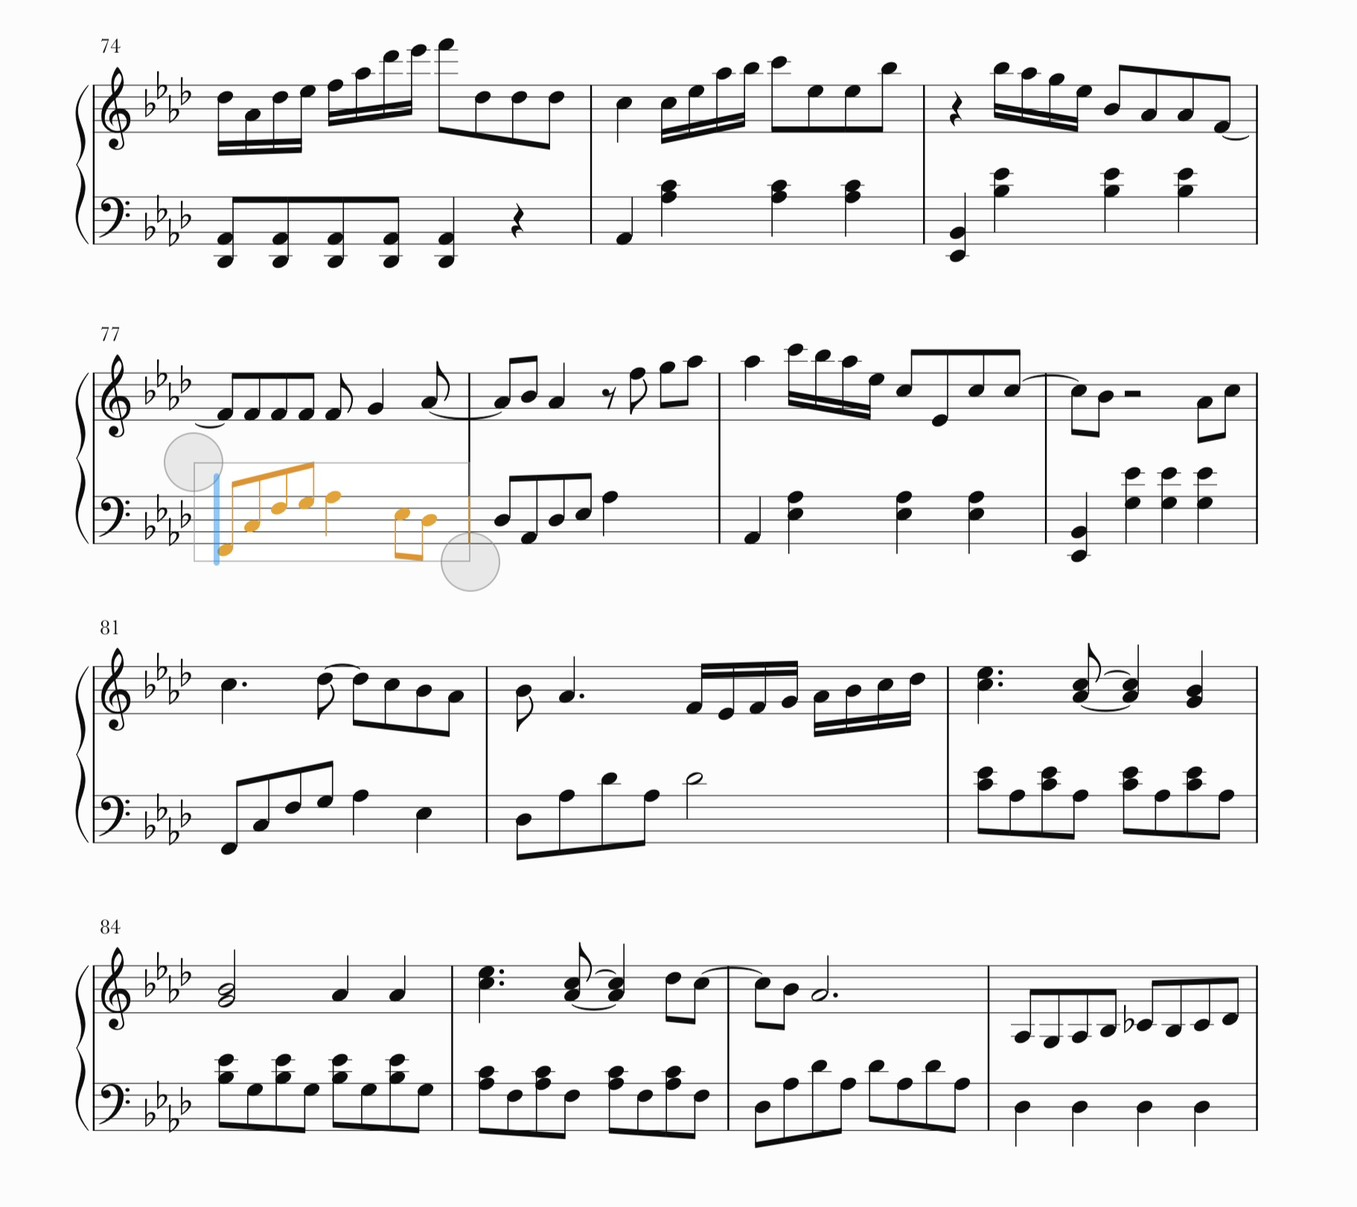
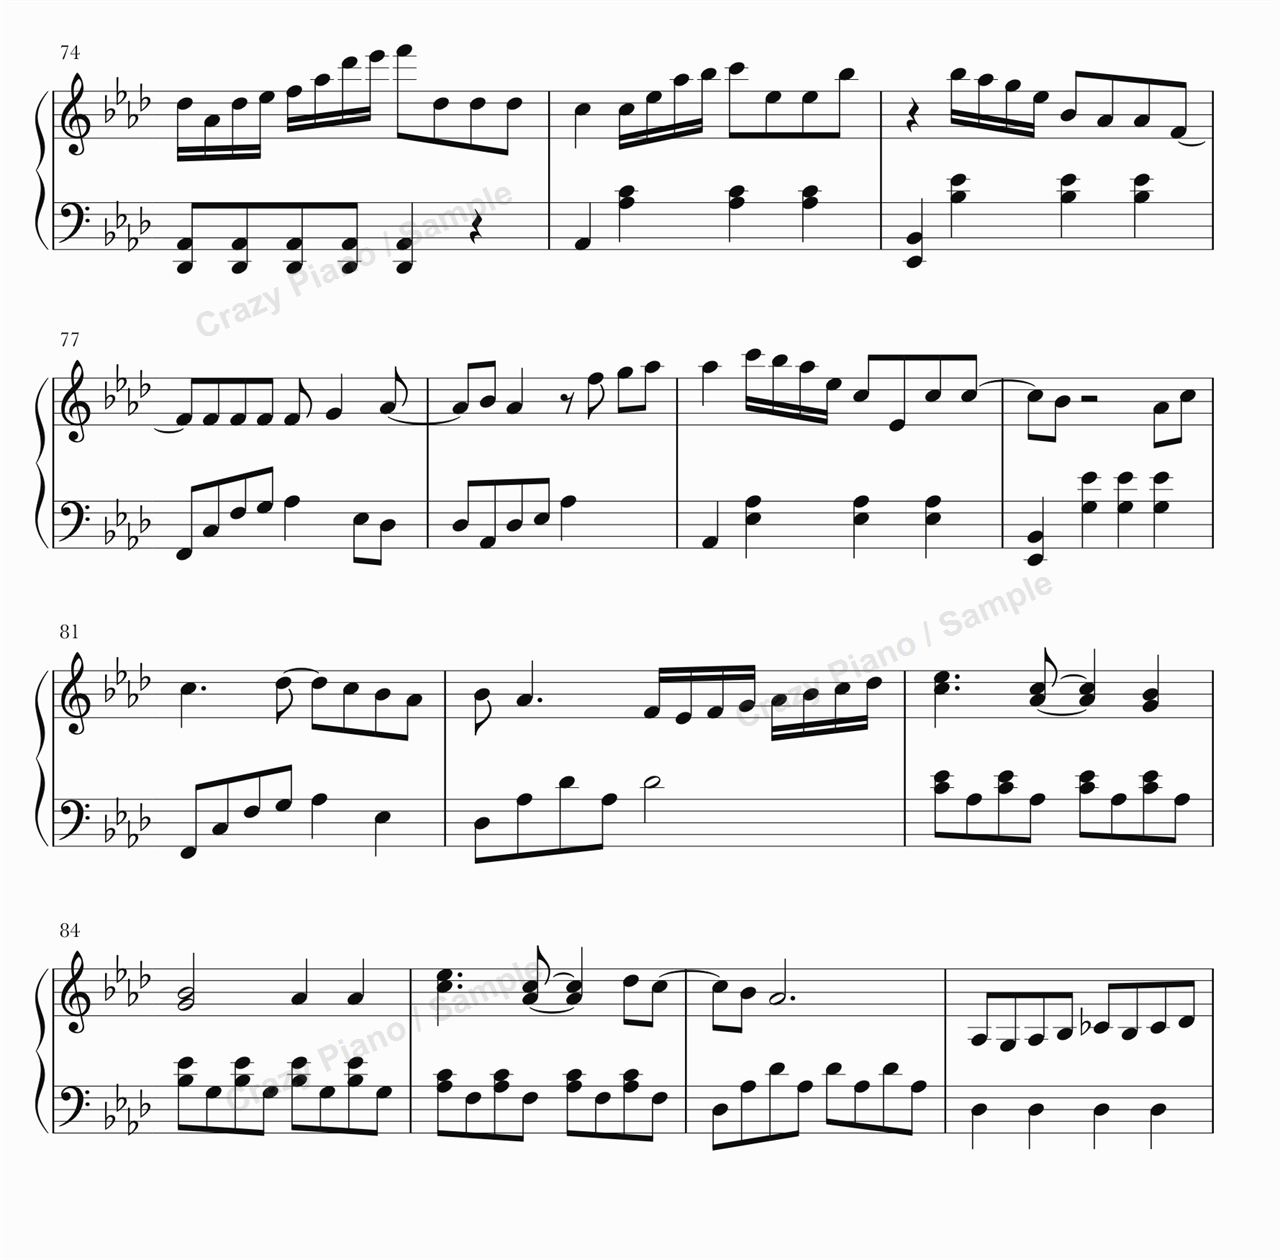
Resolve production asset blockers

diff --git a/PHOTO_USAGE_REVIEW.md b/PHOTO_USAGE_REVIEW.md
@@ -2,46 +2,55 @@
 
 This file records the proposed public website usage of the image assets currently available in `D:\CrazyPiano`. No child names should be displayed in captions, alt text, filenames, or page copy.
 
-## Production website usage audit — updated 2026-10-10
+## Production website usage audit — updated 2026-10-11
 
 This section is the **new audit added in the current production-preparation round**. It is based on image references actually present in `D:\CrazyPiano\website`, rather than on the full source-material library.
 
 ### 1. Currently used on production website — minors or age-unconfirmed participants
 
-`APPROVED FOR PUBLIC USE` requires explicit, verifiable authorization. No such authorization record was found in the project files reviewed during this audit. Until evidence is recorded, every item below remains `PERMISSION REQUIRED`.
+The user has confirmed that every currently deployed photo containing a minor or age-unconfirmed participant has authorization from the relevant person or, for a minor, their parent/legal guardian. Group-photo confirmation covers every identifiable minor in the deployed image.
+
+Authorization record for every item in the table below:
+
+- **Permission:** Permission confirmed by user
+- **Date:** 2026-10-11
+- **Method:** Authorization evidence retained privately by user
+- **Scope:** Crazy Piano official public website
+
+This confirmation does not extend to social media, paid advertising, third-party distribution, or unused candidate assets.
 
 | Website asset filename | Source asset | Route | Section | Permission status | Production action |
 | --- | --- | --- | --- | --- | --- |
-| `public/images/about/about-teacher-student-stage-2024.jpg` | `03/_photos/About Me/about-teacher-student-stage-2024.jpg` | `/` | About Dr. Hsu | No verifiable written public-use authorization found | **PERMISSION REQUIRED** |
-| `public/images/about/about-teaching-in-action-piano-cajon.jpg` | `source-materials/S__33800200.jpg` | `/about` | Teaching in Action | Student appears underage; no verifiable written public-use authorization found | **PERMISSION REQUIRED** |
-| `public/images/gallery/performance-young-student-piano-2024.jpg` | `03/_photos/Performance/performance-young-student-piano-2024.jpg` | `/` | Student Recital Gallery | Minor; no verifiable written public-use authorization found | **PERMISSION REQUIRED** |
-| `public/images/gallery/performance-teen-student-piano-2024.jpg` | `03/_photos/Performance/performance-teen-student-piano-2024.jpg` | `/` | Student Recital Gallery | Minor; no verifiable written public-use authorization found | **PERMISSION REQUIRED** |
-| `public/images/lessons/kids-piano-student-2024.jpg` | `03/_photos/Performance/performance-young-student-piano-2024.jpg` | `/lessons/kids` | Hero; How We Learn | Minor; same underlying photo as the homepage gallery asset above | **PERMISSION REQUIRED** |
-| `public/images/gallery/gallery-ensemble-piano-drums.jpg` | `source-materials/gallery/ensemble/S__33955843_0.jpg` | `/gallery` | Ensemble | Participant age and public-use authorization are unconfirmed | **PERMISSION REQUIRED** |
-| `public/images/gallery/gallery-ensemble-violin-piano.jpg` | `source-materials/gallery/ensemble/S__33955849_0.jpg` | `/gallery` | Ensemble | Minor; no verifiable written public-use authorization found | **PERMISSION REQUIRED** |
-| `public/images/gallery/gallery-ensemble-teacher-student-stage.jpg` | `source-materials/gallery/ensemble/S__33955860_0.jpg` | `/gallery` | Gallery Moments | Minor; no verifiable written public-use authorization found | **PERMISSION REQUIRED** |
-| `public/images/gallery/gallery-posture-child-hand-position.jpg` | `source-materials/gallery/posture/S__33955855_0.jpg` | `/gallery` | Posture / Technique | Minor's hands are visible; no verifiable written public-use authorization found | **PERMISSION REQUIRED** |
-| `public/images/gallery/gallery-posture-video-preview.jpg` | `source-materials/gallery/posture/S__33955856_0.jpg` | `/gallery` | Posture / Technique video card | Participant age and public-use authorization are unconfirmed | **PERMISSION REQUIRED** |
-| `public/images/gallery/gallery-recital-student-solo-stage.jpg` | `source-materials/gallery/recital/S__33955859_0.jpg` | `/gallery` | Recital | Minor; no verifiable written public-use authorization found | **PERMISSION REQUIRED** |
-| `public/images/gallery/music-activity-teacher-stage-talk.jpg` | `source-materials/gallery/recital/S__33955862_0.jpg` | `/`; `/gallery`; `/lessons/exams-competitions` | Homepage Gallery; Recital; Teacher Experience | Teacher is the principal identifiable subject; audience details are low-identifiability | **PERMISSION REQUIRED — LOW IDENTIFIABILITY / REVIEW POSSIBLE RETENTION** |
-| `public/images/gallery/gallery-judging-live-session.jpg` | `source-materials/gallery/judging/CEC123BD-A49F-4C27-918A-8EB2A1C76C82.jpg` | `/gallery` | Judging | Multiple minors; no verifiable written public-use authorization found | **PERMISSION REQUIRED** |
+| `public/images/about/about-teacher-student-stage-2024.jpg` | `03/_photos/About Me/about-teacher-student-stage-2024.jpg` | `/` | About Dr. Hsu | Confirmed for the stated website scope | **APPROVED FOR PUBLIC USE** |
+| `public/images/about/about-teaching-in-action-piano-cajon.jpg` | `source-materials/S__33800200.jpg` | `/about` | Teaching in Action | Confirmed for the stated website scope | **APPROVED FOR PUBLIC USE** |
+| `public/images/gallery/performance-young-student-piano-2024.jpg` | `03/_photos/Performance/performance-young-student-piano-2024.jpg` | `/` | Student Recital Gallery | Confirmed for the stated website scope | **APPROVED FOR PUBLIC USE** |
+| `public/images/gallery/performance-teen-student-piano-2024.jpg` | `03/_photos/Performance/performance-teen-student-piano-2024.jpg` | `/` | Student Recital Gallery | Confirmed for the stated website scope | **APPROVED FOR PUBLIC USE** |
+| `public/images/lessons/kids-piano-student-2024.jpg` | `03/_photos/Performance/performance-young-student-piano-2024.jpg` | `/lessons/kids` | Hero; How We Learn | Confirmed; same underlying photo as the Homepage Gallery asset above | **APPROVED FOR PUBLIC USE** |
+| `public/images/gallery/gallery-ensemble-piano-drums.jpg` | `source-materials/gallery/ensemble/S__33955843_0.jpg` | `/gallery` | Ensemble | Confirmed for the stated website scope | **APPROVED FOR PUBLIC USE** |
+| `public/images/gallery/gallery-ensemble-violin-piano.jpg` | `source-materials/gallery/ensemble/S__33955849_0.jpg` | `/gallery` | Ensemble | Confirmed for the stated website scope | **APPROVED FOR PUBLIC USE** |
+| `public/images/gallery/gallery-ensemble-teacher-student-stage.jpg` | `source-materials/gallery/ensemble/S__33955860_0.jpg` | `/gallery` | Gallery Moments | Confirmed for the stated website scope | **APPROVED FOR PUBLIC USE** |
+| `public/images/gallery/gallery-posture-child-hand-position.jpg` | `source-materials/gallery/posture/S__33955855_0.jpg` | `/gallery` | Posture / Technique | Confirmed for the stated website scope | **APPROVED FOR PUBLIC USE** |
+| `public/images/gallery/gallery-posture-video-preview.jpg` | `source-materials/gallery/posture/S__33955856_0.jpg` | `/gallery` | Posture / Technique video card | Confirmed for the stated website scope | **APPROVED FOR PUBLIC USE** |
+| `public/images/gallery/gallery-recital-student-solo-stage.jpg` | `source-materials/gallery/recital/S__33955859_0.jpg` | `/gallery` | Recital | Confirmed for the stated website scope | **APPROVED FOR PUBLIC USE** |
+| `public/images/gallery/music-activity-teacher-stage-talk.jpg` | `source-materials/gallery/recital/S__33955862_0.jpg` | `/`; `/gallery`; `/lessons/exams-competitions` | Homepage Gallery; Recital; Teacher Experience | Confirmed for the stated website scope, including identifiable audience members | **APPROVED FOR PUBLIC USE** |
+| `public/images/gallery/gallery-judging-live-session.jpg` | `source-materials/gallery/judging/CEC123BD-A49F-4C27-918A-8EB2A1C76C82.jpg` | `/gallery` | Judging | Confirmed for every identifiable minor in the deployed group photo | **APPROVED FOR PUBLIC USE** |
 
 There are now **13 deployed website asset filenames representing 12 distinct photos** in this audit. One source photo is published under separate route-specific filenames:
 
 - `performance-young-student-piano-2024.jpg` and `kids-piano-student-2024.jpg`
 
-Current planning estimate after the first replacement round:
+Current authorization coverage:
 
 - Clearly identifiable minor or age-uncertain people: approximately **19**
 - Low-identifiability photo groups: **4**
 - Total permission-planning people/groups: approximately **23**
-- Multi-minor group photos still deployed: **1** (`gallery-judging-live-session.jpg`)
+- Multi-minor group photos deployed and confirmed within the stated website scope: **1** (`gallery-judging-live-session.jpg`)
 
 Production-action summary by distinct photo:
 
-- **APPROVED FOR PUBLIC USE:** 0
-- **PERMISSION REQUIRED:** 12
-- **REPLACE BEFORE PUBLIC LAUNCH:** 1
+- **APPROVED FOR PUBLIC USE:** 12
+- **PERMISSION REQUIRED:** 0
+- **REPLACE BEFORE PUBLIC LAUNCH:** 0
 
 ### 2. Not currently used on the production website
 
@@ -57,13 +66,15 @@ The following previously catalogued minor/student images are not referenced by t
 
 ### 3. Approved for public use
 
-- No currently used photo containing a minor has verifiable authorization evidence in the reviewed project files.
+- All **12 distinct currently deployed photos** covered by this audit are approved for use on the Crazy Piano official public website based on the user's confirmation dated 2026-10-11.
+- The authorization evidence is retained privately by the user and is not stored in this repository.
+- The approval does not extend to unused candidate assets or uses outside the stated website scope.
 - Adult-only teacher assets are outside this minor-permission count.
 
 ### 4. Replace before launch
 
-- `public/images/gallery/gallery-judging-live-session.jpg` — **REPLACEMENT STILL REQUIRED BEFORE PUBLIC LAUNCH**. It remains in the Gallery Judging section because no current candidate simultaneously preserves the judging story, avoids high permission risk, and avoids same-section duplication.
-- If authorization cannot be documented for any `PERMISSION REQUIRED` item, it must be replaced or removed before public launch.
+- None for the currently deployed photos covered by this audit.
+- `public/images/gallery/gallery-judging-live-session.jpg` is now **APPROVED FOR PUBLIC USE** within the stated website scope; replacement is no longer required for permission reasons.
 
 ## Legacy proposed-use catalog
 
@@ -72,33 +83,33 @@ The table below is retained as the broader asset catalog created before the prod
 | File name | Proposed page usage | Contains minors | Public-use status | Notes |
 | --- | --- | --- | --- | --- |
 | `pen-assets/profile/hsu-minpiyer-hero-enhanced.png` | Home Hero | No | Owner confirmed for website use | Final Homepage Hero teacher image; retain unless the owner requests a future change. |
-| `03/_photos/About Me/about-teacher-student-stage-2024.jpg` | Home About Dr. Hsu | Yes | **Public use permission required.** | Teacher with one student on a recital stage. Do not identify the student. |
-| `source-materials/S__33800200.jpg` → `pen-assets/about/about-teaching-in-action-piano-cajon.jpg` | About — Teaching in Action | Yes | **Public use permission required.** | Teacher at the piano with a student playing cajón/percussion. Do not identify the student. |
+| `03/_photos/About Me/about-teacher-student-stage-2024.jpg` | Home About Dr. Hsu | Yes | **APPROVED FOR PUBLIC USE — official website scope.** | Permission confirmed by user on 2026-10-11; evidence retained privately. Do not identify the student. |
+| `source-materials/S__33800200.jpg` → `pen-assets/about/about-teaching-in-action-piano-cajon.jpg` | About — Teaching in Action | Yes | **APPROVED FOR PUBLIC USE — official website scope.** | Permission confirmed by user on 2026-10-11; evidence retained privately. Do not identify the student. |
 | `03/_photos/Hero/hero-student-recital-group-2024.jpg` | Former Home Student Recital Gallery | Yes | **NOT CURRENTLY USED ON PRODUCTION WEBSITE.** | Group recital photo with multiple students. Do not identify students. |
-| `03/_photos/Performance/performance-young-student-piano-2024.jpg` | Home Student Recital Gallery; future Kids Lessons | Yes | **Public use permission required.** | Young student performing at the piano. |
-| `03/_photos/Performance/performance-teen-student-piano-2024.jpg` | Home Student Recital Gallery; future Performance | Yes | **Public use permission required.** | Student in a red recital dress at the piano. |
+| `03/_photos/Performance/performance-young-student-piano-2024.jpg` | Home Student Recital Gallery; Kids Lessons | Yes | **APPROVED FOR PUBLIC USE — official website scope.** | Permission confirmed by user on 2026-10-11; evidence retained privately. |
+| `03/_photos/Performance/performance-teen-student-piano-2024.jpg` | Home Student Recital Gallery | Yes | **APPROVED FOR PUBLIC USE — official website scope.** | Permission confirmed by user on 2026-10-11; evidence retained privately. |
 | `03/_photos/Competition-Judging/competition-judging-students-certificates-2023.jpg` | Former Home Gallery and Exams/Judging usage | Yes | **NOT CURRENTLY USED ON PRODUCTION WEBSITE.** | Students, certificates, judges, and examination signage are visible. Keep out of production unless permissions and privacy review are complete. |
 | `03/_photos/Kids Lessons/kids-guided-duet-performance-2024.jpg` | Future Kids Lessons | Yes | **Public use permission required.** | Two young students performing with the teacher visible behind them. |
 | `03/_photos/Testimonials/testimonials-student-certificate-2024.jpg` | Future Testimonials or Student Achievements | Yes | **Public use permission required.** | Student holding a document. Confirm that no private information is readable before publication. |
 | `03/_photos/Credentials/credentials-phd-diploma-fu-jen-2018.jpg` | Internal credential verification only | No | Do not publish without explicit approval and privacy review | Contains the teacher's full name, birth date, student number, and degree information. Prefer a cropped or redacted version if ever shown publicly. |
 | `source-materials/gallery/teaching/S__33955851_0.jpg` → `pen-assets/gallery/gallery-teaching-adult-lesson.jpg` | Gallery — Teaching | No | Adult participant approval recommended | Teacher working beside an adult piano student. |
-| `source-materials/gallery/ensemble/S__33955843_0.jpg` → `pen-assets/gallery/gallery-ensemble-piano-drums.jpg` | Gallery — Ensemble | Unclear | **Public use permission required until age and consent are confirmed.** | Teacher at piano with a second performer on drums/percussion. |
-| `source-materials/gallery/ensemble/S__33955849_0.jpg` → `pen-assets/gallery/gallery-ensemble-violin-piano.jpg` | Gallery — Ensemble | Yes | **Public use permission required.** | Child violinist performing with the teacher at piano. Do not identify the student. |
-| `source-materials/gallery/ensemble/S__33955860_0.jpg` → `pen-assets/gallery/gallery-ensemble-teacher-student-stage.jpg` | Gallery — Ensemble / Teaching in Action | Yes | **Public use permission required.** | Teacher and student at the piano on stage. Do not identify the student. |
-| `source-materials/gallery/posture/S__33955855_0.jpg` → `pen-assets/gallery/gallery-posture-child-hand-position.jpg` | Gallery — Posture / Technique | Yes | **Public use permission required.** | Close-up of a child's hands at the keyboard. |
-| `source-materials/gallery/posture/S__33955856_0.jpg` → `pen-assets/gallery/gallery-posture-video-preview.jpg` | Gallery — Posture video preview | Unclear | **Public use permission required until the participant is confirmed.** | Hand-position demonstration with embedded Traditional Chinese subtitles. |
-| `source-materials/gallery/recital/S__33955859_0.jpg` → `pen-assets/gallery/gallery-recital-student-solo-stage.jpg` | Gallery — Recital | Yes | **Public use permission required.** | Student performing solo at the piano. Do not identify the student. |
+| `source-materials/gallery/ensemble/S__33955843_0.jpg` → `pen-assets/gallery/gallery-ensemble-piano-drums.jpg` | Gallery — Ensemble | Unclear | **APPROVED FOR PUBLIC USE — official website scope.** | Permission confirmed by user on 2026-10-11; evidence retained privately. |
+| `source-materials/gallery/ensemble/S__33955849_0.jpg` → `pen-assets/gallery/gallery-ensemble-violin-piano.jpg` | Gallery — Ensemble | Yes | **APPROVED FOR PUBLIC USE — official website scope.** | Permission confirmed by user on 2026-10-11; evidence retained privately. Do not identify the student. |
+| `source-materials/gallery/ensemble/S__33955860_0.jpg` → `pen-assets/gallery/gallery-ensemble-teacher-student-stage.jpg` | Gallery — Ensemble / Teaching in Action | Yes | **APPROVED FOR PUBLIC USE — official website scope.** | Permission confirmed by user on 2026-10-11; evidence retained privately. Do not identify the student. |
+| `source-materials/gallery/posture/S__33955855_0.jpg` → `pen-assets/gallery/gallery-posture-child-hand-position.jpg` | Gallery — Posture / Technique | Yes | **APPROVED FOR PUBLIC USE — official website scope.** | Permission confirmed by user on 2026-10-11; evidence retained privately. |
+| `source-materials/gallery/posture/S__33955856_0.jpg` → `pen-assets/gallery/gallery-posture-video-preview.jpg` | Gallery — Posture video preview | Unclear | **APPROVED FOR PUBLIC USE — official website scope.** | Permission confirmed by user on 2026-10-11; evidence retained privately. |
+| `source-materials/gallery/recital/S__33955859_0.jpg` → `pen-assets/gallery/gallery-recital-student-solo-stage.jpg` | Gallery — Recital | Yes | **APPROVED FOR PUBLIC USE — official website scope.** | Permission confirmed by user on 2026-10-11; evidence retained privately. Do not identify the student. |
 | `source-materials/gallery/recital/S__33955864.jpg` → `pen-assets/gallery/gallery-recital-teacher-students-group.jpg` | Former Gallery — Recital usage | Yes | **NOT CURRENTLY USED ON PRODUCTION WEBSITE.** | Teacher and adults with two children after a recital. Do not identify the children. |
 | `source-materials/gallery/performace/S__33955844_0.jpg` → `pen-assets/gallery/gallery-performance-teacher-studio-piano.jpg` | Gallery — Performance | No | Teacher approval required | Teacher playing a grand piano in a studio setting. |
 | `source-materials/gallery/performace/S__33955845_0.jpg` → `pen-assets/gallery/gallery-performance-teacher-recital-hall.jpg` | Gallery — Performance | No | Teacher approval required | Teacher performing in a recital hall. |
 | `source-materials/gallery/performace/S__33955846_0.jpg` → `pen-assets/gallery/gallery-performance-editorial-piano-reflection.jpg` | Gallery — Gallery Moments | No | Teacher approval required | Editorial view through the grand piano with reflection. |
 | `source-materials/gallery/judging/S__33955854_0.jpg` → `pen-assets/gallery/gallery-judging-event-portrait.jpg` | Gallery — Judging | No | Adult participants' approval recommended | Teacher with two adult participants beside an event sign. |
-| `source-materials/gallery/judging/CEC123BD-A49F-4C27-918A-8EB2A1C76C82.jpg` → `pen-assets/gallery/gallery-judging-live-session.jpg` | Gallery — Judging | Yes | **Public use permission required.** | Active judging setting with multiple young performers and audience members. Do not identify students. |
+| `source-materials/gallery/judging/CEC123BD-A49F-4C27-918A-8EB2A1C76C82.jpg` → `pen-assets/gallery/gallery-judging-live-session.jpg` | Gallery — Judging | Yes | **APPROVED FOR PUBLIC USE — official website scope.** | Permission confirmed for every identifiable minor by user on 2026-10-11; evidence retained privately. Do not identify students. |
 
 ## Current home page review
 
 - The Hero uses an adult-only teacher image.
-- The About section uses a different teacher-and-student image and therefore requires guardian or rights-holder permission before public launch.
-- The Homepage Gallery main image and activity image now use teacher-focused replacements. Two remaining student performance images still require confirmed public-use permission.
+- The About teacher-and-student image is approved for the stated official website scope based on the user's 2026-10-11 confirmation.
+- The Homepage Gallery main image and activity image use teacher-focused replacements. The two remaining student performance images are approved for the stated official website scope.
 - No student names should appear anywhere on the public website.
-- If permission cannot be confirmed, replace the image with an adult-only teacher portrait, a hands-at-the-keyboard detail, an empty recital-stage photograph, or another image with documented usage rights.
+- Authorization evidence remains privately held by the user and is not stored in this repository.

diff --git a/website/ASSET_MAPPING.md b/website/ASSET_MAPPING.md
@@ -19,7 +19,16 @@ The source assets remain unchanged.
 | `public/images/lessons/exams-hero-teacher.png` | `pen-assets/lessons/exams-hero-teacher.png` | Exams & Competitions hero |
 | `public/images/gallery/music-activity-teacher-stage-talk.jpg` | `source-materials/gallery/recital/S__33955862_0.jpg` | Exams Teacher Experience block; neutral music-activity context, not presented as a judging-session photograph |
 | `public/images/lessons/custom-example-01-difficult.jpg` | `pen-assets/lessons/custom-example-01-original.jpg` | Difficult score preview; website copy labels it 困難版 |
-| `public/images/lessons/custom-example-01-custom.jpg` | `pen-assets/lessons/custom-example-01-adapted.jpg` | Custom score preview; website copy labels it 客製版 |
+| `public/images/lessons/custom-example-01-custom.jpg` | `source-materials/custom-arrangements/example-01/custom-example-01-custom-clean.jpg` | Clean, production-safe Custom score preview; website copy labels it 客製版 |
+
+### Custom Scores clean preview — resolved 2026-10-11
+
+- Clean source: `source-materials/custom-arrangements/example-01/custom-example-01-custom-clean.jpg`
+- Production preview: `public/images/lessons/custom-example-01-custom.jpg`
+- Retired source: `source-materials/custom-arrangements/example-01/adapted.jpg`; the prior website copy showed orange selected notes, a blue cursor, gray control points, and an active editing selection.
+- Processing is deterministic only: proportional downscaling to `1280 × 1260`, JPEG preview compression, and three low-opacity diagonal `Crazy Piano / Sample` watermarks. No notes, text, rhythm, or musical content were redrawn or generated.
+- The source file remains unchanged. The public page provides no PDF, original editing file, full-resolution source, or score-download control.
+- Production blocker status: **RESOLVED**.
 
 ## About assets
 
@@ -77,5 +86,5 @@ The official QR decodes to `https://line.me/ti/p/dXFpD4P63M`. The Contact page u
 - Do not reference `source-materials` from application code.
 - Confirm all `Public use permission required` entries in `PHOTO_USAGE_REVIEW.md` before production launch.
 - Homepage Hero teacher photo is the approved final design image.
-- `custom-example-01-custom.jpg` currently preserves the source preview's editing selection marks. Replace it with a clean formal export when available.
+- Custom Scores clean preview blocker is **RESOLVED**. Keep the production preview watermarked and do not expose the clean full-resolution source or a score-download link.
 - Contact form backend is implemented at `app/api/contact/route.ts` with the Resend SDK. Production delivery requires server-side `RESEND_API_KEY` and a verified sender in `CONTACT_FROM_EMAIL`; neither value belongs in source control.
